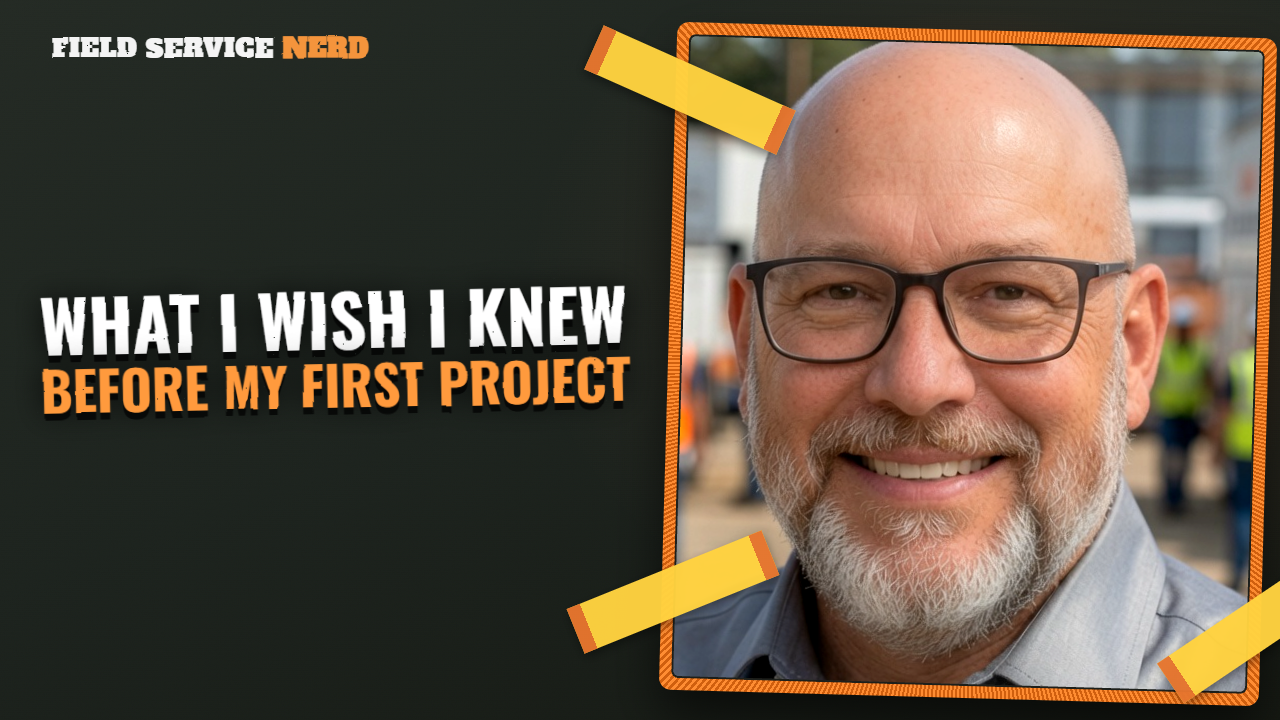
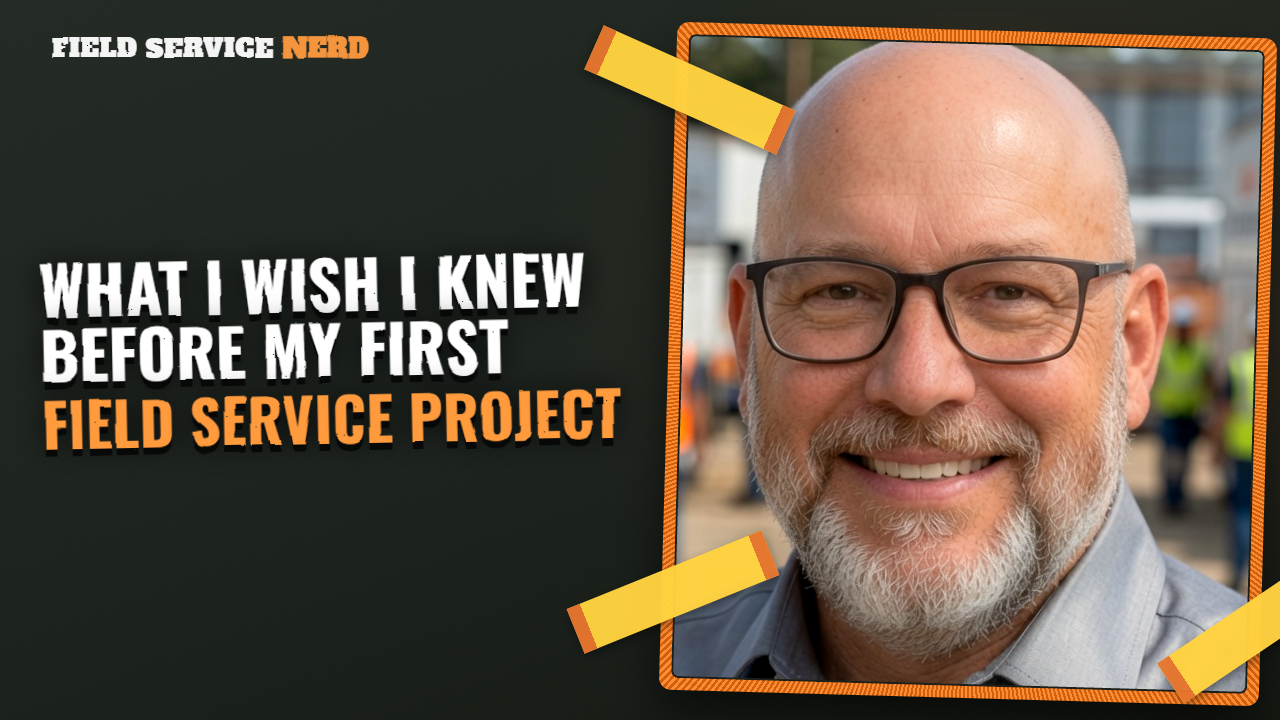
Thumbnail rule: headline must name Field Service; rebuild EP02
- THUMBNAIL-STYLE.md: add critical headline rule (must include Field Service /
  Service Management / Field Operations, in orange; no vague 'My First Project').
- EP02 rebuilt: 'What I Wish I Knew / Before My First / FIELD SERVICE PROJECT'.

Changed region(s): [[0.0312, 0.3361, 0.5, 0.6417]]

diff --git a/web/brand/yt-thumb-ep02.html b/web/brand/yt-thumb-ep02.html
@@ -22,8 +22,9 @@
   .t .left{position:absolute;left:40px;top:0;bottom:24px;width:660px;z-index:6;transform:rotate(-1.2deg);display:flex;flex-direction:column;justify-content:center;}
   .t .title{font-family:var(--f-osw);font-weight:700;text-transform:uppercase;letter-spacing:.001em;margin:0;color:#FFFFFF;white-space:nowrap;
      text-shadow:0 7px 0 rgba(0,0,0,.7), 0 0 30px rgba(0,0,0,.85);}
-  .t .title .l1{display:block;font-size:71px;line-height:.98;}
-  .t .title .l2{display:block;font-size:54px;line-height:1.12;color:#FF9A3D;}
+  .t .title .l1{display:block;font-size:66px;line-height:.99;}
+  .t .title .l2{display:block;font-size:66px;line-height:.99;}
+  .t .title .l3{display:block;font-size:60px;line-height:1.06;color:#FF9A3D;margin-top:4px;}
   .t .fail{display:inline-block;margin-top:16px;font-family:var(--f-wm);font-weight:400;text-transform:uppercase;
      font-size:138px;line-height:.88;color:#FF5A1F;-webkit-text-stroke:3px #24100a;
      text-shadow:0 8px 0 rgba(0,0,0,.65);
@@ -70,7 +71,7 @@
   <div class="tape bl"></div>
   <div class="tape br"></div>
   <div class="left silk">
-    <h1 class="title"><span class="l1">What I Wish I Knew</span><span class="l2">Before My First Project</span></h1>
+    <h1 class="title"><span class="l1">What I Wish I Knew</span><span class="l2">Before My First</span><span class="l3">Field Service Project</span></h1>
   </div>
   <div class="haz"></div>
 </div></body></html>

diff --git a/youtube/THUMBNAIL-STYLE.md b/youtube/THUMBNAIL-STYLE.md
@@ -19,6 +19,12 @@ Pierre's directive: **use this exact style for all FSN YouTube thumbnails. Do no
 - **No episode numbers, no extra text**
 - Bottom edge: thin hazard-stripe strip
 
+## CRITICAL headline rule
+Every headline **must clearly include one of**: **"Field Service"**, **"Service Management"**,
+or **"Field Operations"**. Never ship a headline that relies on a vague phrase like "My First
+Project", "This Project", or "The Project" on its own. A viewer must know it's about Field
+Service **within 1 second**. When the term appears, set it in the orange punch color.
+
 ## The template
 `web/brand/yt-thumb-master.html` — the canonical implementation (1280×720).
 Per-episode: swap the headline lines + the stamp word, re-render.
